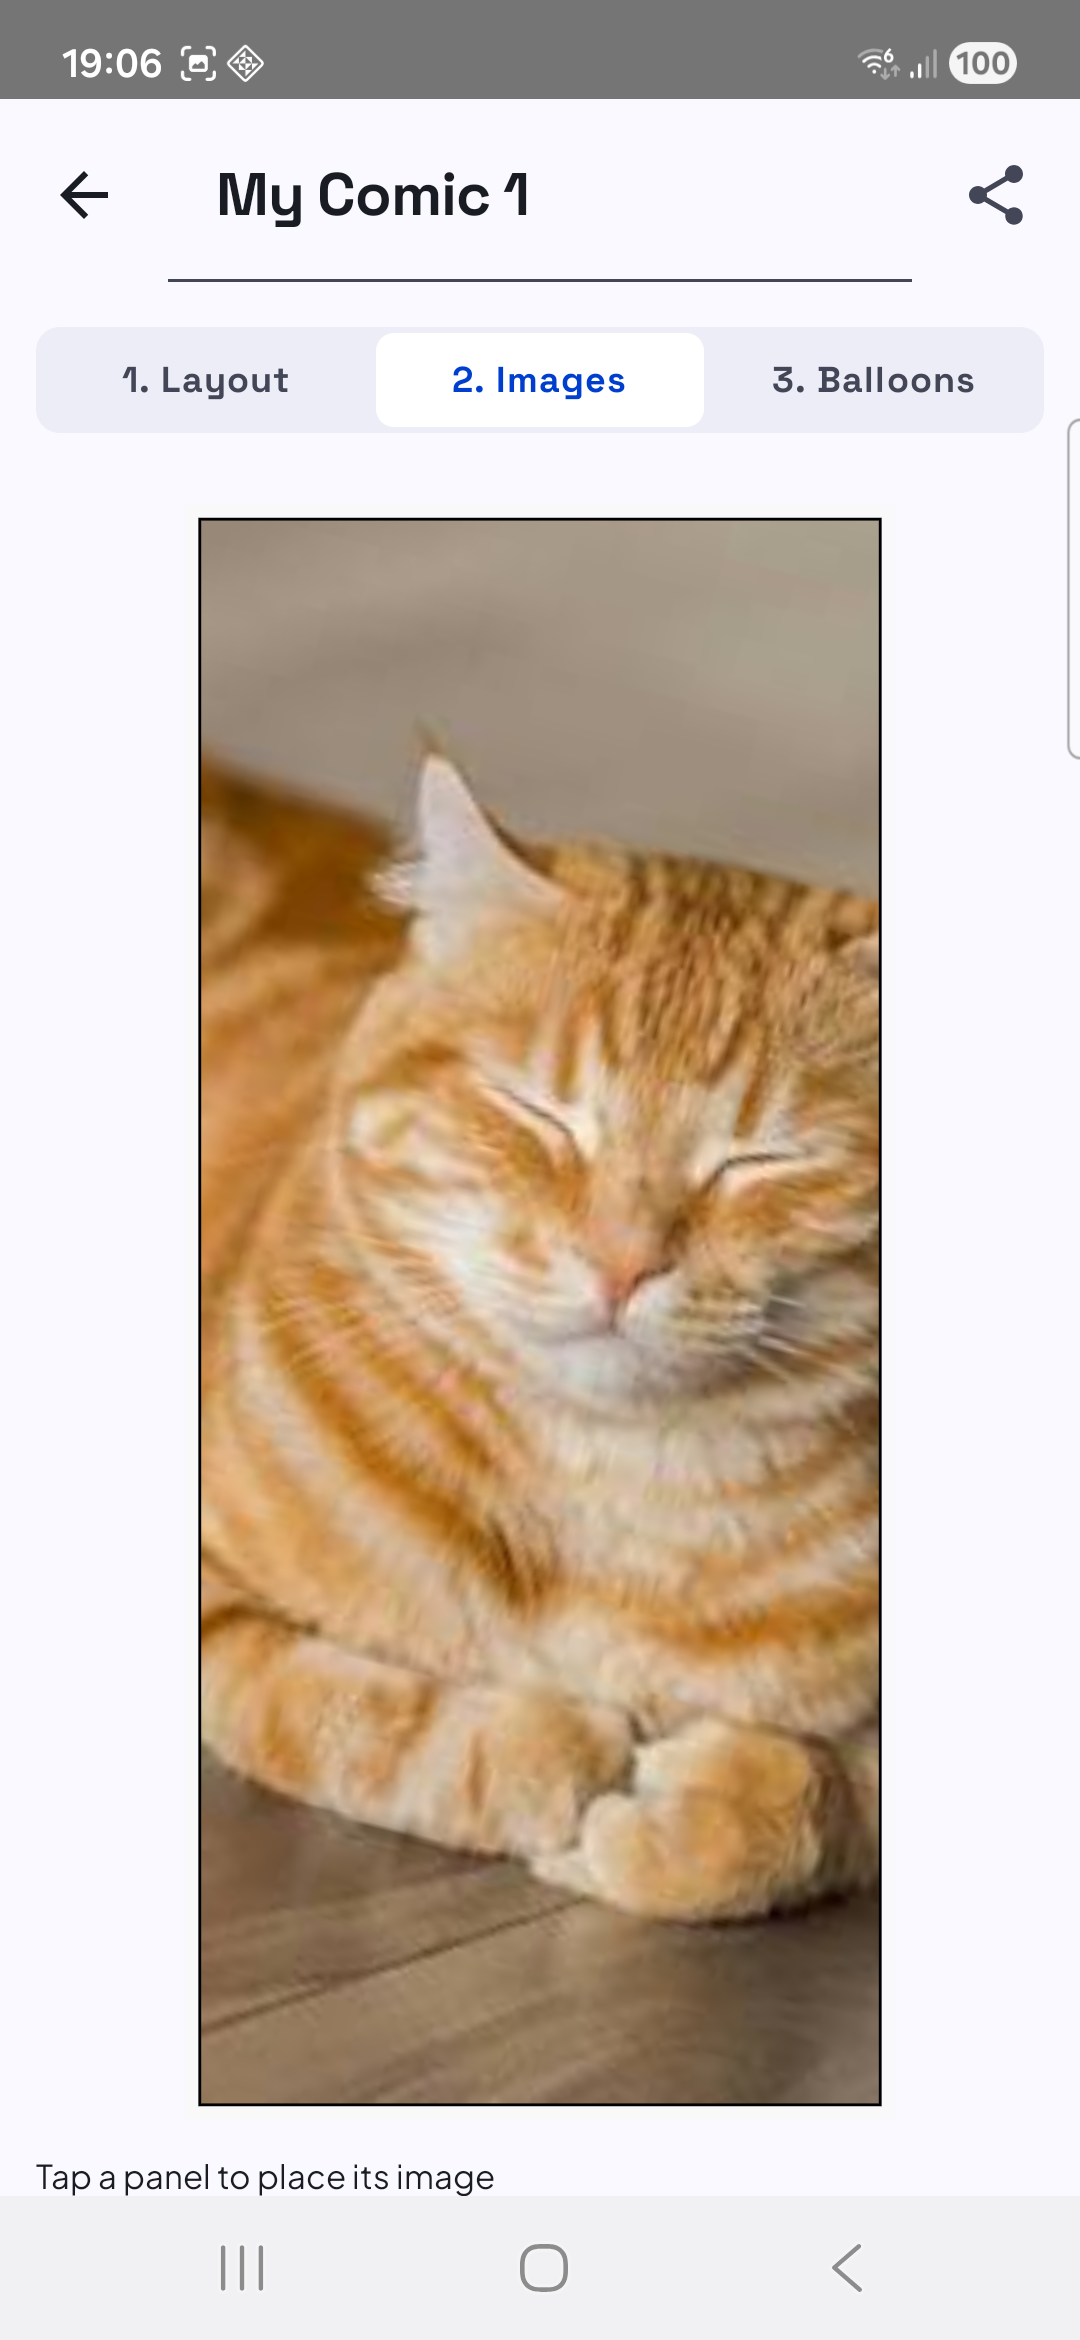
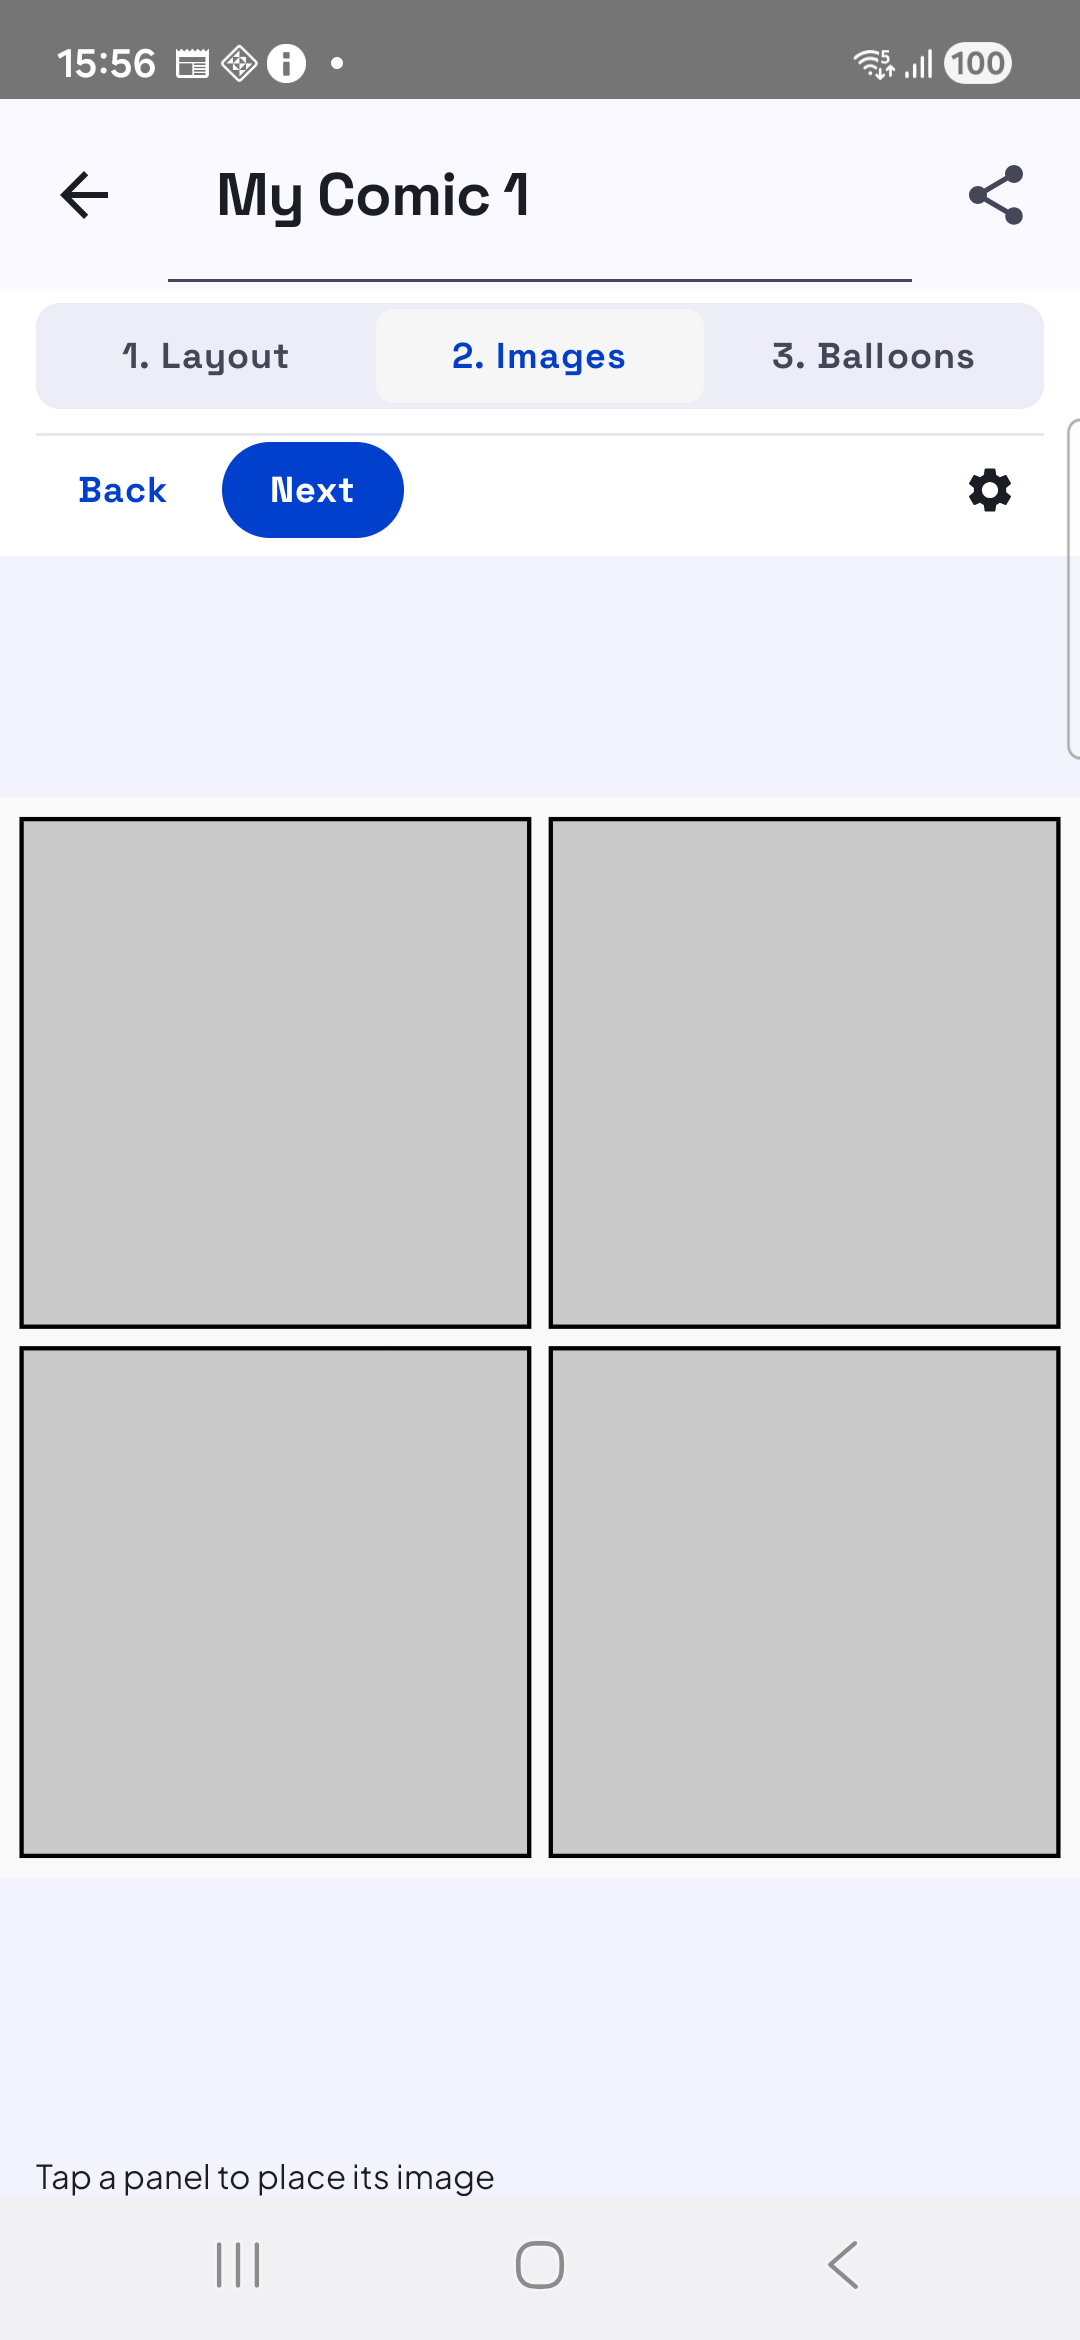
add back and next to images screen

diff --git a/app/src/main/java/com/ballooner/ui/comiceditor/ComicEditorScreen.kt b/app/src/main/java/com/ballooner/ui/comiceditor/ComicEditorScreen.kt
@@ -75,15 +75,23 @@ fun ComicEditorScreen(
             CircularProgressIndicator()
         }
         is ComicEditorUiState.Content -> Column(modifier = modifier.fillMaxSize()) {
+            // A preset's options are a decision in progress: they are taken or dropped as a
+            // whole, so going back throws them away where everywhere else simply steps back.
+            val inLayoutOptions = state.step == EditorStep.LAYOUT && state.layoutKind != null
             EditorHeader(
                 step = state.step,
                 onSelectStep = actions::selectStep,
                 onOptions = { showOptions = true },
-                // The preset's options are a decision in progress: they are taken or dropped as
-                // a whole, so they carry their own way forward and back.
-                inLayoutOptions = state.step == EditorStep.LAYOUT && state.layoutKind != null,
-                onBack = actions::discardLayoutKind,
-                onNext = { actions.selectStep(EditorStep.PLACEMENT) },
+                onBack = when {
+                    inLayoutOptions -> actions::discardLayoutKind
+                    state.step == EditorStep.PLACEMENT -> ({ actions.selectStep(EditorStep.LAYOUT) })
+                    else -> null
+                },
+                onNext = when {
+                    inLayoutOptions -> ({ actions.selectStep(EditorStep.PLACEMENT) })
+                    state.step == EditorStep.PLACEMENT -> ({ actions.selectStep(EditorStep.BALLOONS) })
+                    else -> null
+                },
             )
             // The workspace sits on its own ground so the chrome above it reads as a separate
             // surface rather than as the top of the canvas.
@@ -210,9 +218,8 @@ private fun EditorHeader(
     step: EditorStep,
     onSelectStep: (EditorStep) -> Unit,
     onOptions: () -> Unit,
-    inLayoutOptions: Boolean,
-    onBack: () -> Unit,
-    onNext: () -> Unit,
+    onBack: (() -> Unit)?,
+    onNext: (() -> Unit)?,
 ) {
     val scheme = MaterialTheme.colorScheme
     Column(
@@ -228,7 +235,7 @@ private fun EditorHeader(
             horizontalArrangement = Arrangement.spacedBy(4.dp),
             verticalAlignment = Alignment.CenterVertically,
         ) {
-            if (inLayoutOptions) {
+            if (onBack != null) {
                 TextButton(
                     onClick = onBack,
                     modifier = Modifier.height(32.dp),
@@ -236,6 +243,8 @@ private fun EditorHeader(
                 ) {
                     Text("Back", style = MaterialTheme.typography.labelLarge)
                 }
+            }
+            if (onNext != null) {
                 Button(
                     onClick = onNext,
                     modifier = Modifier.height(32.dp),

diff --git a/.github/instructions/ui-vocabulary.instructions.md b/.github/instructions/ui-vocabulary.instructions.md
@@ -50,8 +50,16 @@ Use **screen** only for a full navigation destination. Use **dialog** for modal 
 - **Editor toolbar**: The band below the Editor top bar, on its own paper surface, containing the
   Step switch and — under a divider — the **Editor action row**.
 - **Editor action row**: The row beneath the Step switch. The Options button sits at its right
-  end; while Preset options are open the Preset back button and Preset next button sit at its
-  left.
+  end; the Step back button and Step next button sit at its left wherever there is somewhere to
+  go.
+- **Step next button**: The "Next" button at the left of the Editor action row. Moves to the step
+  after this one, exactly as tapping that step does. Shown while Preset options are open, where
+  it also takes the preset, and in the Placement step.
+- **Step back button**: The "Back" button beside it. Shown in the same places as the Step next
+  button. In the Placement step it returns to the Layout step. While Preset options are open it
+  returns to the Preset picker *without choosing the preset*, throwing away everything the
+  options changed, so the comic and its active preset are as they were before the options opened;
+  the Breadcrumb does the same.
 - **Workspace**: Everything below the Editor toolbar. It sits on a tinted ground so the toolbar
   reads as a separate surface above it rather than as the top of the Canvas.
 - **Canvas**: The editing area that displays the Page. The Editor toolbar and Comic kit are
@@ -97,15 +105,9 @@ the parts owned by later steps are shown dimmed and are not interactive.
   **Custom**. Read back off the comic rather than stored.
 - **Preset options**: The second view of the Layout step, opened by tapping a Layout preset card.
   It is a continuation of the Preset picker, not an overlay: same ground, no frame of its own.
-  Reached by tapping a card, and left by the **Preset next button**, the **Preset back button**,
-  or the **Breadcrumb**, which continues the picker's heading — "Select panel preset / Single" —
-  with the leading part tappable to go back.
-- **Preset next button**: The "Next" button at the left of the Editor action row while Preset
-  options are open. Takes the preset and its options and moves to the Placement step, exactly as
-  tapping that step does.
-- **Preset back button**: The "Back" button beside it. Returns to the Preset picker without
-  choosing the preset, throwing away everything the options changed, so the comic and its active
-  preset are as they were before the options opened. The Breadcrumb does the same.
+  Reached by tapping a card, and left by the **Step next button**, the **Step back button**, or
+  the **Breadcrumb**, which continues the picker's heading — "Select panel preset / Single" — with
+  the leading part tappable to go back.
 - **Single panel shape**: The Single preset's options. Four **Shape tiles** — **Square**,
   **Ratio**, **Custom**, **Auto** — over a **Panel preview**.
 - **Strip options**: The Strip preset's options. An **Orientation** pair of icon buttons and a

diff --git a/docs/design/comic-creation-workflow.md b/docs/design/comic-creation-workflow.md
@@ -75,7 +75,8 @@ Opening a preset's options is not choosing it. The options are taken as a whole 
 the Images step — with **Next**, or by tapping the step itself — and thrown away as a whole by
 going back, with **Back** or with the breadcrumb, which leaves the comic as the picker found it
 and the preset it already was still active. So a user can look inside every preset in turn
-without changing anything.
+without changing anything. The Images step carries the same pair, where they simply step between
+steps.
 
 ### Panel shape, and why there is no page shape
 
